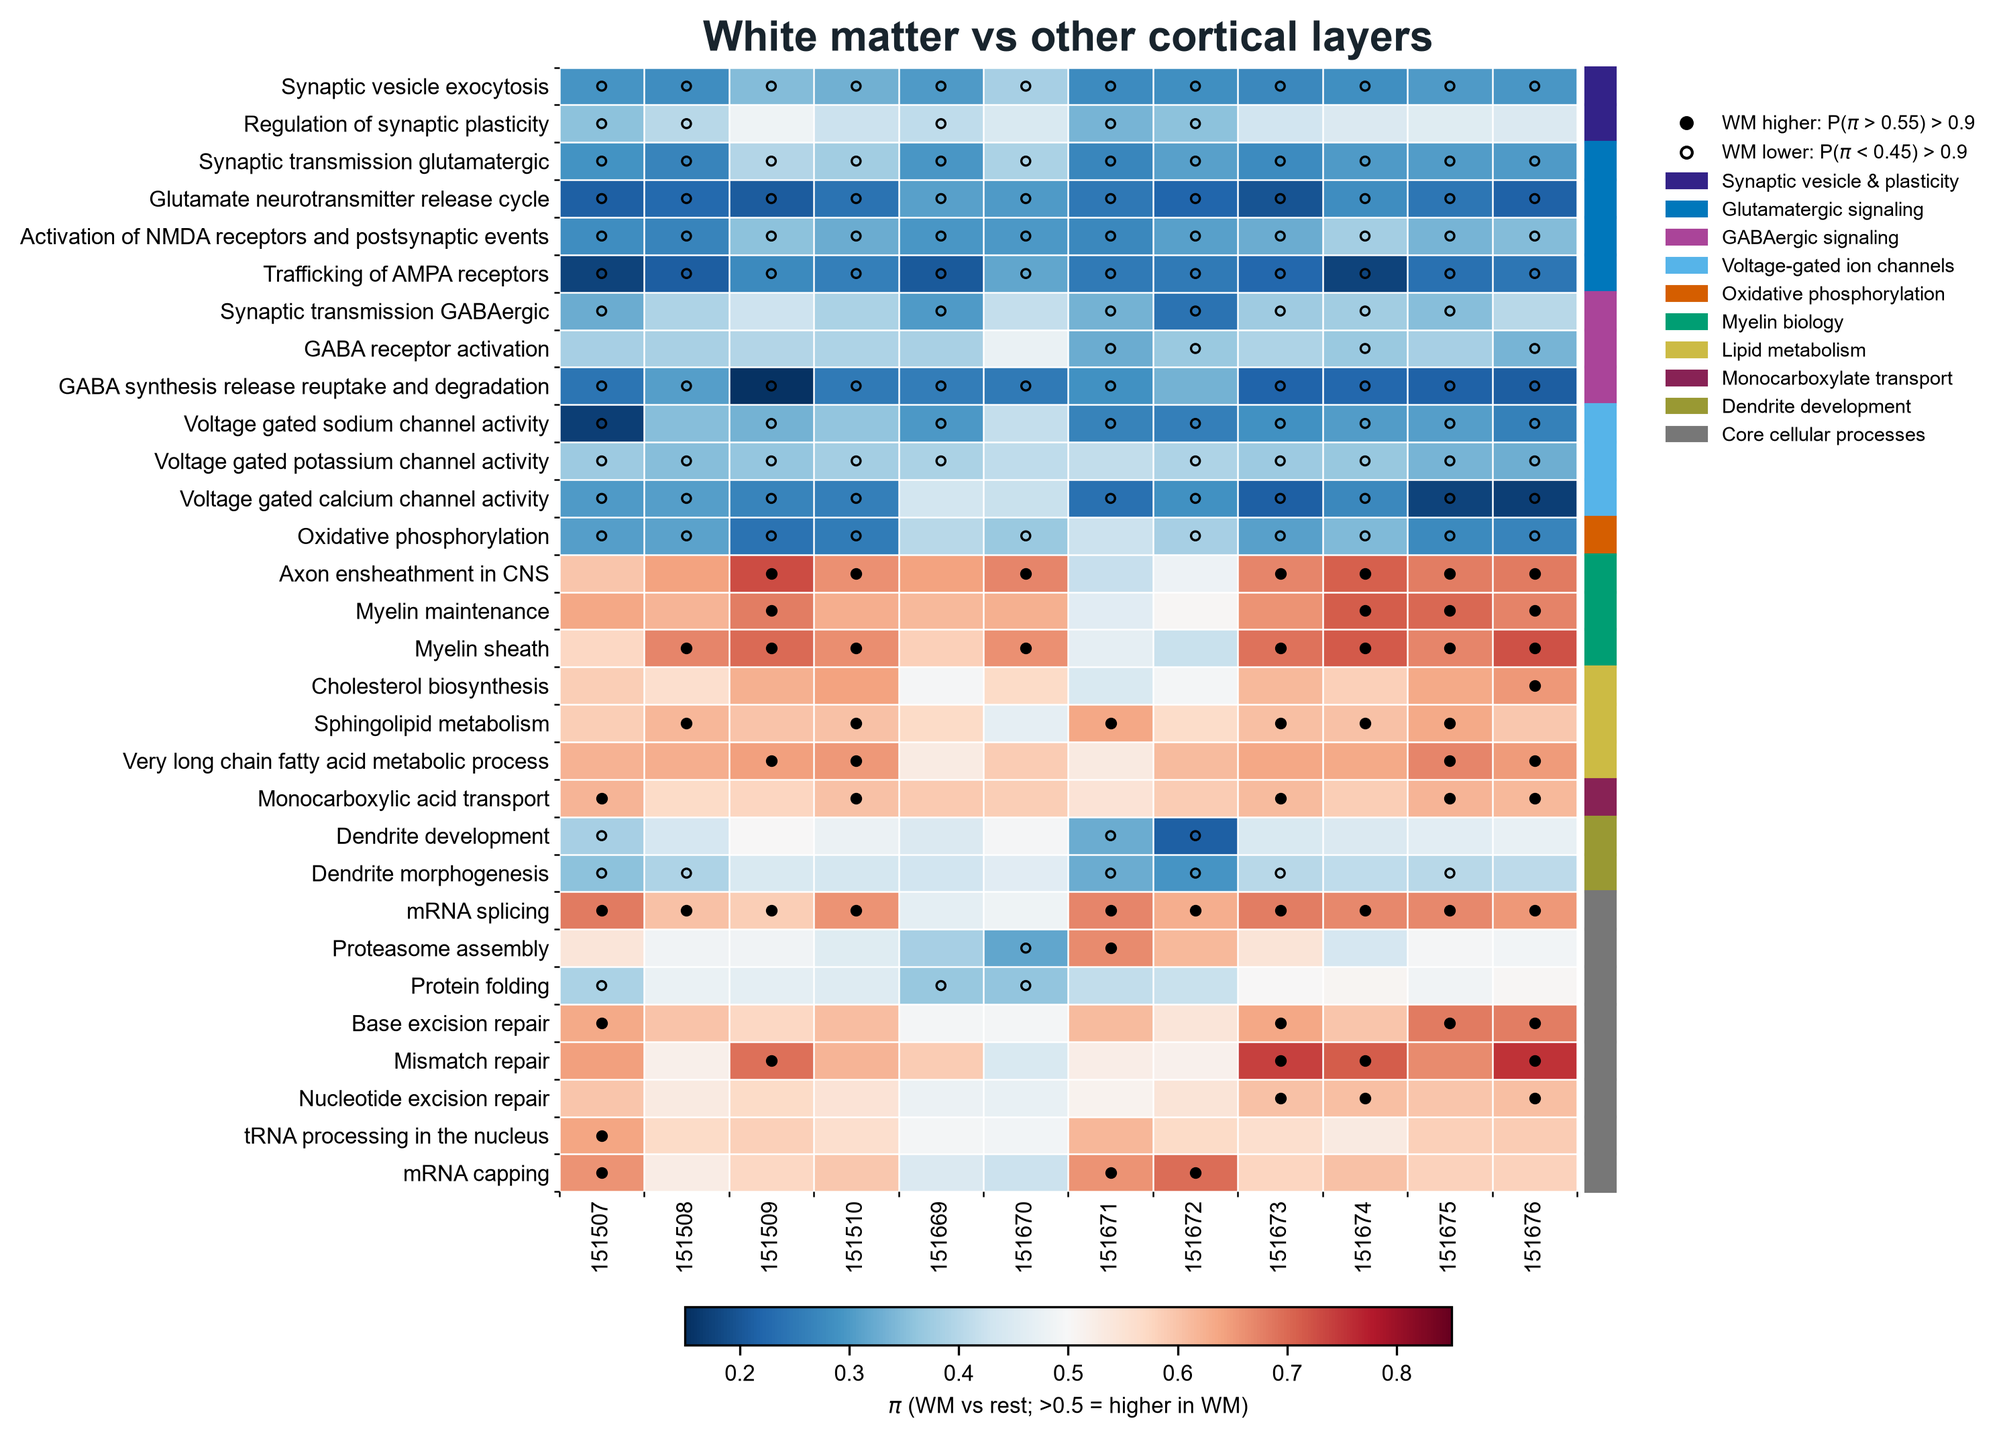
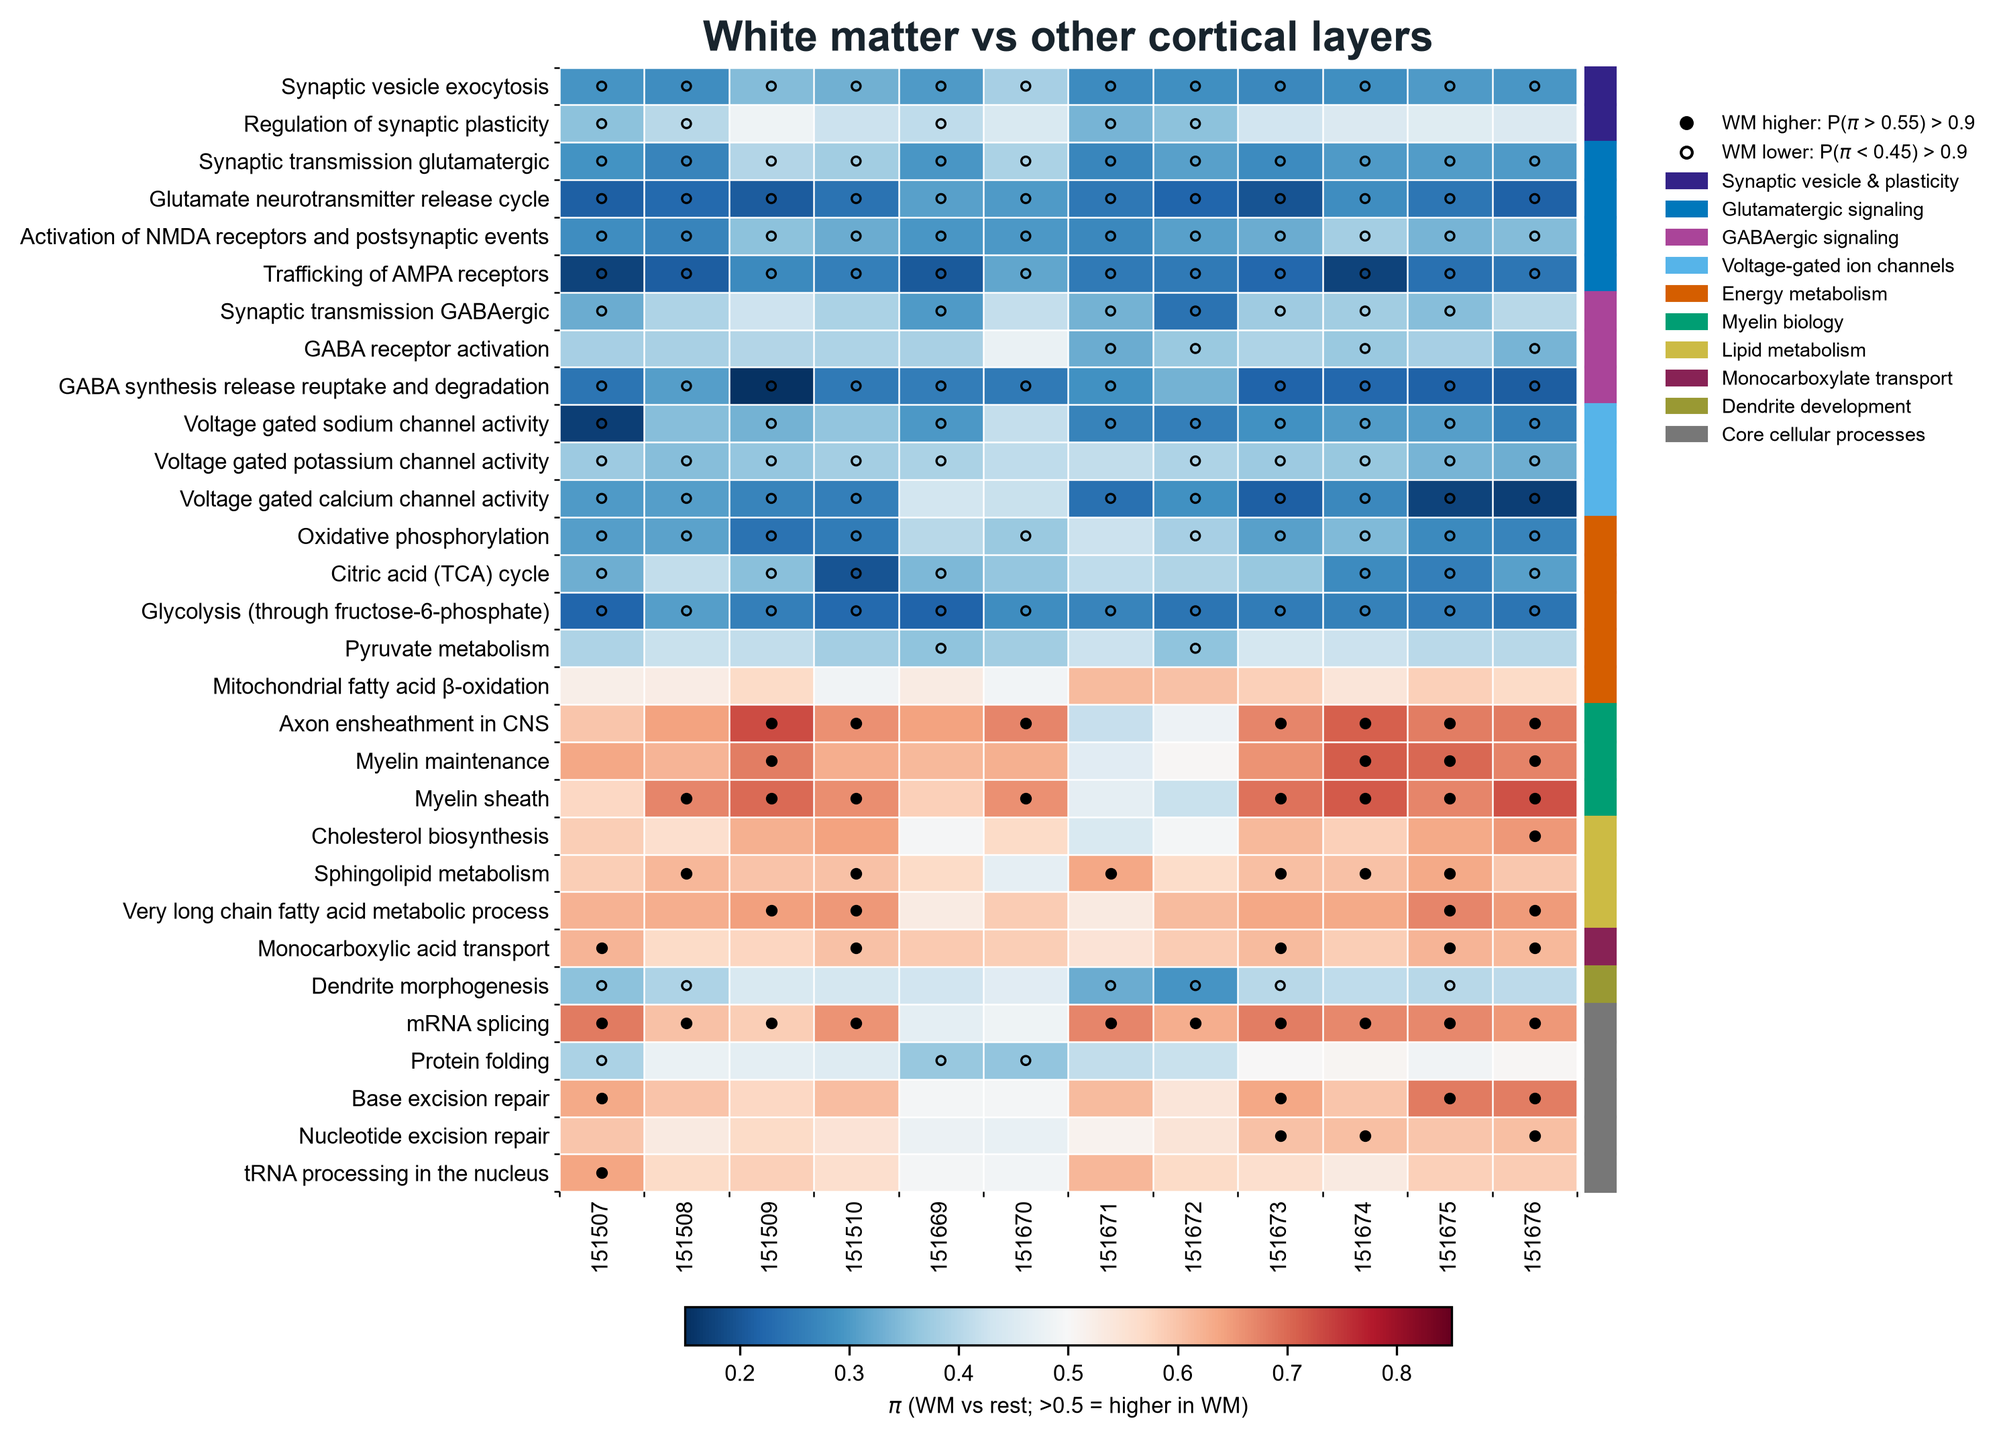
README: DLPFC results across all 12 sections; revised 30 gene sets
Results: SpaPath WM-versus-rest results for the 12 DLPFC sections (three
donors) with a revised panel of 30 gene sets, replacing the single-section
SpaPath paragraph; the method comparison on section 151673 is unchanged.
Methods: the 12-section data and the revised panel (dendrite development,
mRNA capping, proteasome assembly and mismatch repair removed; TCA cycle,
glycolysis, pyruvate metabolism and mitochondrial fatty acid beta-oxidation
added). Heatmap, section clustering, results table and gene sets updated.

Changed region(s): [[0.0623, 0.3748, 0.8098, 0.8434], [0.8721, 0.1874, 0.9655, 0.2186]]

diff --git a/README.md b/README.md
@@ -55,11 +55,21 @@ To evaluate the performance of these methods on real data, we analyzed a human d
 
 [Supplementary Table 2. The 20 prespecified MSigDB gene sets for the DLPFC analysis.](benchmark/analysis/DLPFC/data/geneset_20.xlsx)
 
-We compared the layer-versus-rest results of the four methods. Using the WM-versus-rest comparison as an example, most methods recovered the strong expected signals: lipid metabolism and myelin-related pathways were inferred as up-regulated in WM, consistent with myelin being 70–80% lipid by dry weight (Baumann and Pham-Dinh, 2001; Simons and Nave, 2015), whereas synaptic transmission pathways were inferred as down-regulated, consistent with the signaling-dominated energy budget of gray matter (Harris, Jolivet and Attwell, 2012). The methods diverged on weaker signals. STpathway's region dCor ranked lipid and myelin pathways as the most regionally divergent but spanned only 0.88 to 0.99 across all 20 pathways, offering limited discrimination between strong and weak signals. GSDensity reported only 12 of the 20 gene sets after its deviation filter. Moreover, the discarded sets were not random. They included myelin maintenance, sphingolipid metabolism and very-long-chain fatty acid metabolism, which GSVA and SpaPath both identified as more active in WM. Among the reported sets, GSDensity compares the proportions of spots labelled as highly active, so it missed differences that did not change these proportions, as for myelin sheath, where 0.2% of WM spots and less than 0.1% of the other spots were labelled (p = 0.31), and glutamatergic synaptic transmission, where similar proportions were labelled in both (31% versus 29%, p = 0.27). For GSVA, we tested WM-versus-rest score differences with a two-sided spatial block bootstrap (Methods). The test recovered the expected directions, with the six myelin and lipid sets higher and the synaptic, potassium channel and oxidative phosphorylation sets lower in WM, but it could not distinguish strong from weak signals, because 15 of the 20 sets reached the smallest p-value the bootstrap can attain and received the same q = 0.00067.
+We compared the layer-versus-rest results of the four methods. Using the WM-versus-rest comparison as an example, most methods recovered the strong expected signals: lipid metabolism and myelin-related pathways were inferred as up-regulated in WM, consistent with myelin being 70–80% lipid by dry weight (Baumann and Pham-Dinh, 2001; Simons and Nave, 2015), whereas synaptic transmission pathways were inferred as down-regulated, consistent with the signaling-dominated energy budget of gray matter (Harris, Jolivet and Attwell, 2012). The methods diverged on weaker signals. STpathway's region dCor ranked lipid and myelin pathways as the most regionally divergent but spanned only 0.88 to 0.99 across all 20 pathways, offering limited discrimination between strong and weak signals. GSDensity reported only 12 of the 20 gene sets after its deviation filter. Moreover, the discarded sets were not random. They included myelin maintenance, sphingolipid metabolism and very-long-chain fatty acid metabolism, which GSVA identified as more active in WM and SpaPath placed in the same direction (π 0.61 to 0.66). Among the reported sets, GSDensity compares the proportions of spots labelled as highly active, so it missed differences that did not change these proportions, as for myelin sheath, where 0.2% of WM spots and less than 0.1% of the other spots were labelled (p = 0.31), and glutamatergic synaptic transmission, where similar proportions were labelled in both (31% versus 29%, p = 0.27). For GSVA, we tested WM-versus-rest score differences with a two-sided spatial block bootstrap (Methods). The test recovered the expected directions, with the six myelin and lipid sets higher and the synaptic, potassium channel and oxidative phosphorylation sets lower in WM, but it could not distinguish strong from weak signals, because 15 of the 20 sets reached the smallest p-value the bootstrap can attain and received the same q = 0.00067.
 
-In contrast, SpaPath recovered all strong signals in the correct direction while remaining sensitive to weaker, biologically expected ones (Fig. X). Here the target region is WM and the rest consists of the gray-matter cortical layers L1–L6, so the π score measures how often a WM pathway state exceeds the spot-weighted gray-matter state, and the posterior evidence is the probability that it does (π > 0.5): evidence near 1 indicates higher activity in WM and evidence near 0 higher activity in gray matter. When the 15 brain-related gene sets were positioned by their WM-versus-rest π score and posterior evidence, they resolved into two distinct, biologically coherent groups (Fig. X). All seven myelin- and lipid-related sets were inferred to be more active in WM: three with evidence > 0.99 (myelin sheath, sphingolipid metabolism, and monocarboxylic acid transport), three with evidence > 0.95 (axon ensheathment, myelin maintenance, and very-long-chain fatty acid metabolism), and one, cholesterol biosynthesis, with evidence ≥ 0.90 (0.912). Collectively, these sets recapitulate the oligodendrocyte lipid-synthesis program that underlies myelination. Conversely, all synaptic transmission (n = 6), voltage-gated potassium channel, and oxidative phosphorylation sets were inferred to be more active in gray matter (cortical layers L1–L6) with evidence ≤ 0.05, reflecting three defining properties of this compartment: dense synaptic connectivity, neuronal excitability, and high energetic demand. Notably, oxidative phosphorylation received strong support for lower WM activity (evidence = 2.5 × 10⁻⁵) despite a modest effect size, consistent with a recent human brain map of mitochondrial respiratory capacity showing that gray matter contains over 50% more mitochondria than white matter (Mosharov et al., 2025), whereas other benchmark methods could not distinguish this signal from noise.
+In contrast, SpaPath placed every gene set on a continuous scale with a direction. Here the target region is WM and the rest consists of the gray-matter cortical layers L1–L6, so the π score measures how often a WM pathway state exceeds the spot-weighted gray-matter state, and a difference was called when the evidence with δ = 0.05 exceeded 0.9, that is, when P(π > 0.55) or P(π < 0.45) was above 0.9. To test whether the results held beyond a single section, we applied SpaPath to all 12 sections of the dataset, which come from three donors with two pairs of adjacent sections each, the two pairs 300 µm apart (Maynard et al., 2021). Each section was analyzed separately, with 166 to 652 WM spots, using a panel of 30 gene sets that keeps 19 of the 20 sets above and adds GABAergic signalling, sodium and calcium channel activity, synaptic plasticity, dendrite morphogenesis, base excision repair and four energy-metabolism sets (Methods; Supplementary Table 3).
 
-We also observed that several pathways representing basic cellular processes, including mRNA splicing and nucleotide excision repair, tended toward higher inferred activity in WM (evidence > 0.9). We hypothesized that these differences arise from regional variation in cellular composition. WM is dominated by oligodendrocytes, which produce and maintain large amounts of myelin membrane and protein (Pfeiffer et al., 1993; Nave and Werner, 2014), rely on extensive QKI-regulated alternative splicing of myelin transcripts (Wu et al., 2002), and are prone to oxidative DNA damage owing to their high iron content and metabolic rate (Bradl and Lassmann, 2010). Elevated splicing and DNA repair activity in WM may therefore reflect oligodendrocyte enrichment rather than region-intrinsic regulation. To test this, we estimated cell-type composition by RCTD deconvolution (Cable et al., 2022) using the LIBD spatialDLPFC snRNA-seq reference (Huuki-Myers et al., 2024), which confirmed a higher oligodendrocyte proportion in WM than in cortical layers (Fig. Xa). To quantify the expected contribution of composition, we derived cell-type-specific pathway activities from the same reference using GSVA (Fig. Xb) and weighted these scores by the estimated cell-type proportions. The resulting composition-predicted differences correlated with π scores across all 20 pathways (Pearson r = 0.856, R² = 0.732; Fig. Xc), yet composition did not account for all signals. Most notably, oxidative phosphorylation showed opposite directions: the snRNA-seq reference predicted higher activity in WM, whereas SpaPath inferred lower activity from the spatial data (π < 0.5). Because nuclear transcriptomes underrepresent the cytoplasmic and mitochondrial transcripts enriched in the gray-matter neuropil, the composition-based prediction misses this signal, whereas whole-tissue spatial profiling retains it, consistent with the higher mitochondrial density of gray matter (Mosharov et al., 2025).
+The lower activity of neuronal pathways in WM was the most reproducible result (Fig. X). Synaptic vesicle exocytosis, glutamatergic synaptic transmission, the glutamate release cycle, NMDA receptor activation and AMPA receptor trafficking were called lower in WM in all 12 sections, with median π scores of 0.23 to 0.32, and GABA synthesis, release, reuptake and degradation in 11. Voltage-gated potassium and calcium channel activity and oxidative phosphorylation were called lower in 10 sections, the latter consistent with gray matter containing over 50% more mitochondria than white matter (Mosharov et al., 2025). Energy metabolism as a whole was lower in WM: glycolysis was called lower in all 12 sections (median π 0.26) and the TCA cycle in 7 (median π 0.35), whereas mitochondrial fatty acid β-oxidation showed no difference (median π 0.55, no section called). Lower glycolysis in WM runs against the view that oligodendrocytes rely on glycolysis (REF) and more likely reflects the higher overall energy demand of the neuron-rich gray matter (Harris, Jolivet and Attwell, 2012).
+
+The higher activity of myelin and lipid pathways in WM was weaker and more variable between sections. Myelin sheath was called higher in WM in 8 sections, axon ensheathment in 7, sphingolipid metabolism in 6, monocarboxylic acid transport in 5, and myelin maintenance and very-long-chain fatty acid metabolism in 4 each, with median π scores of 0.59 to 0.67. The variation followed the donors. Each donor 3 section had 6 to 9 gene sets called higher in WM, each donor 1 section 3 to 6 and each donor 2 section 0 to 2, and in sections 151671 and 151672 of donor 2 the π scores of the three myelin sets were between 0.42 and 0.50. This ordering did not follow the number of WM spots, which was smallest in donor 1 (166 to 354) and largest in donor 3 (513 to 652). When the 12 sections were clustered by their π scores, the two pairs of donor 2 sections branched off first, and the donor 1 and donor 3 sections were intermixed (Fig. Y).
+
+[Figure X. WM-versus-rest π scores of the 30 gene sets in the 12 DLPFC sections. Filled and open circles mark gene sets called higher and lower in WM (evidence with δ = 0.05 above 0.9).](benchmark/analysis/DLPFC/figure/dlpfc12_wm_vs_rest_heatmap.png)
+
+[Figure Y. Hierarchical clustering of the 12 DLPFC sections by their WM-versus-rest π scores (Euclidean distance, average linkage), with the donor of each section.](benchmark/analysis/DLPFC/figure/dlpfc12_wm_vs_rest_sections.png)
+
+[Supplementary Table 3. WM-versus-rest π score, evidence and call of the 30 gene sets in each of the 12 DLPFC sections.](benchmark/analysis/DLPFC/DLPFC12_WM_vs_rest_results.csv)
+
+We also observed that several pathways representing basic cellular processes tended toward higher inferred activity in WM. mRNA splicing was called higher in WM in 10 of the 12 sections, base excision repair in 4 and nucleotide excision repair in 3. We hypothesized that these differences arise from regional variation in cellular composition. WM is dominated by oligodendrocytes, which produce and maintain large amounts of myelin membrane and protein (Pfeiffer et al., 1993; Nave and Werner, 2014), rely on extensive QKI-regulated alternative splicing of myelin transcripts (Wu et al., 2002), and are prone to oxidative DNA damage owing to their high iron content and metabolic rate (Bradl and Lassmann, 2010). Elevated splicing and DNA repair activity in WM may therefore reflect oligodendrocyte enrichment rather than region-intrinsic regulation. To test this, we estimated cell-type composition by RCTD deconvolution (Cable et al., 2022) using the LIBD spatialDLPFC snRNA-seq reference (Huuki-Myers et al., 2024), which confirmed a higher oligodendrocyte proportion in WM than in cortical layers (Fig. Xa). To quantify the expected contribution of composition, we derived cell-type-specific pathway activities from the same reference using GSVA (Fig. Xb) and weighted these scores by the estimated cell-type proportions. The resulting composition-predicted differences correlated with π scores across all 20 pathways (Pearson r = 0.856, R² = 0.732; Fig. Xc), yet composition did not account for all signals. Most notably, oxidative phosphorylation showed opposite directions: the snRNA-seq reference predicted higher activity in WM, whereas SpaPath inferred lower activity from the spatial data (π < 0.5). Because nuclear transcriptomes underrepresent the cytoplasmic and mitochondrial transcripts enriched in the gray-matter neuropil, the composition-based prediction misses this signal, whereas whole-tissue spatial profiling retains it, consistent with the higher mitochondrial density of gray matter (Mosharov et al., 2025).
 
 [Figure 1. SpaPath recovers regional pathway activity differences in DLPFC](benchmark/analysis/DLPFC/figure/celltype.png)
 
@@ -235,6 +245,8 @@ The benchmarking protocol was identical for simulated and real data, and only th
 #### DLPFC data
 
 On the DLPFC data, all methods were applied to the 3,611 morphologically annotated spots of section 151673, with the 513 white matter (WM) spots as the target region and the remaining 3,098 spots as the rest. All methods used the Space Ranger filtered matrix and kept every spot with a layer annotation. No additional spot-level filtering was applied, because it can preferentially remove spots from biologically distinct regions and the genuine signal they carry (REF: Totty et al., 2025). WM serves as a partial biological reference because myelin-related and oligodendrocyte-associated pathways are expected a priori to be WM-enriched (REF). The DLPFC panel consisted of 20 MSigDB gene sets spanning synaptic transmission (n = 6), voltage-gated potassium channel activity (n = 1), oxidative phosphorylation (n = 1), myelination (n = 3), lipid metabolism (n = 4), and basal RNA/protein maintenance and DNA repair (n = 5). Sets were selected for size (16–210 detected genes in this section) and minimal redundancy (mean pairwise Jaccard index 0.008, maximum 0.19; Supplementary Table 2).
+
+SpaPath was also applied to all 12 sections of the dataset (Maynard et al., 2021), from donors Br5292 (151507–151510), Br5595 (151669–151672) and Br8100 (151673–151676), using the 47,329 spots with a layer annotation (3,431 to 4,788 per section). In each section WM (166 to 652 spots) was compared with the remaining annotated spots; sections 151669–151672 have a combined Layer 2/3 and no Layer 1 annotation. SCTransform was run on each section separately, and SpaPath was run in the observed mode on the Pearson residuals with the same settings as for section 151673. The panel for this analysis consisted of 30 MSigDB gene sets: synaptic transmission and plasticity (n = 9), voltage-gated sodium, potassium and calcium channel activity (n = 3), energy metabolism (oxidative phosphorylation, TCA cycle, glycolysis, pyruvate metabolism and mitochondrial fatty acid β-oxidation; n = 5), myelination (n = 3), lipid metabolism (n = 4), dendrite morphogenesis (n = 1) and basal RNA, protein and DNA maintenance (n = 5). Dendrite development, whose genes include all those of dendrite morphogenesis, was not included, nor were mRNA capping, proteasome assembly and mismatch repair. The sets had 15 to 211 detected genes per section, a mean pairwise Jaccard index of 0.008 and a maximum of 0.23 (Supplementary Table 3; [gene sets](benchmark/analysis/DLPFC/data/DLPFC12_gene_sets.gmt)).
 
 #### Normalization
 
